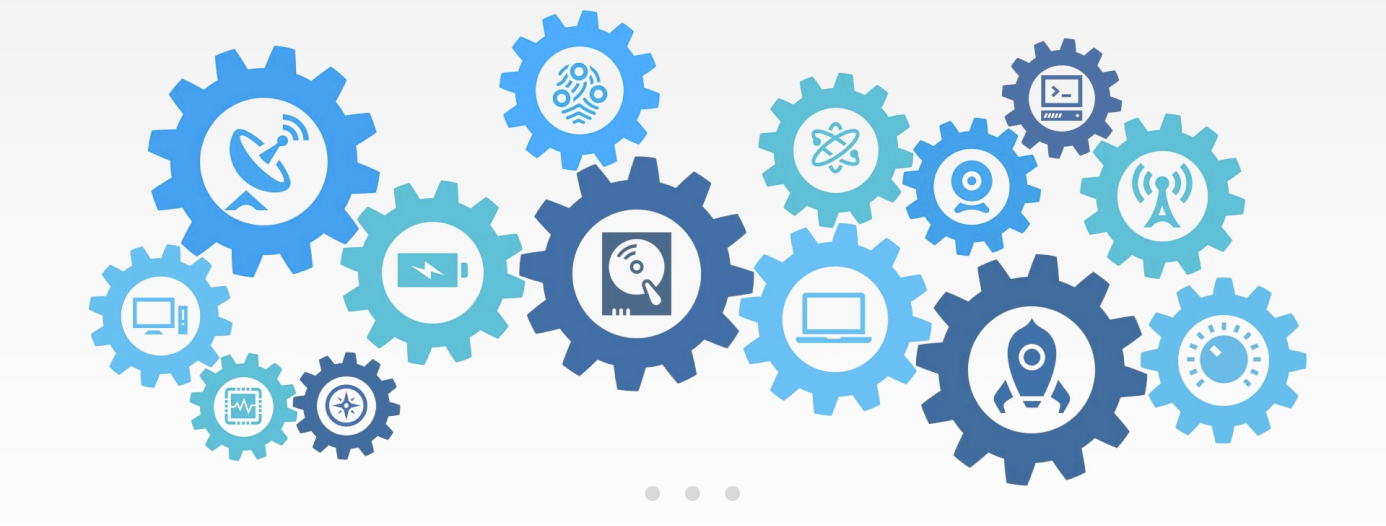
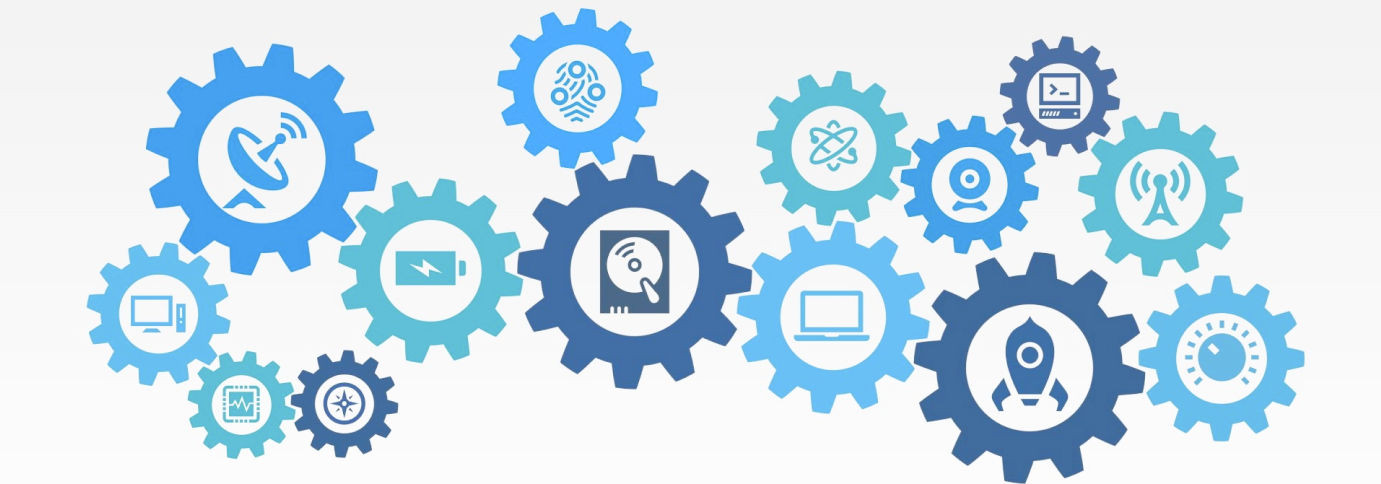
Modified home page

Changed region(s): [[0.0623, 0.062, 0.9652, 1.0], [0.4671, 0.9298, 0.5293, 0.9607]]

diff --git a/src/pages/Home/Home.jsx b/src/pages/Home/Home.jsx
@@ -7,9 +7,11 @@ import Newcard from '../../components/Cards/Newcard'
 import Text from "../../components/Text/Text"
 import flower from "../../assets/Vector.png"
 const Home = () => {
+  
   return (
    <>
-  <Carousel>
+   
+  <Carousel autoPlay={true}  showStatus={false}showThumbs={false}>
     <div className='carousel'>
    <img className="img"src={img} alt="" srcset="" width={"100%"} height={"60%"}/>
    </div>
@@ -31,7 +33,7 @@ const Home = () => {
 <p style={{position:"relative"}}>
 Vision: The vision of Indo Universal Collaboration for Engineering Education (IUCEE) is to improve the quality and global relevance<br/> of engineering education in India<br/>
 </p>
-<p style={{position:"relative",left:"30px"}}>
+<p style={{position:"relative"}}>
 Mission: The mission is to build an ecosystem for transforming engineering education in India with the assistance of engineering education<br/>experts and industry from around the world
 
 </p>

diff --git a/src/pages/Home/home.css b/src/pages/Home/home.css
@@ -21,6 +21,16 @@
      height: 70vh;    */
 /* } */ 
 
+.carousel .control-dots .dot{
+   width: 16px !important;
+   height: 16px !important;
+}
+
+.carousel-root{
+   padding-top: 30px;
+   padding-bottom: 137px;
+}
+
 .carousel{
     margin: 0 auto;
    /* border: 1px solid black; */
@@ -33,6 +43,7 @@
    text-align: center;
    font-size: 32px;
    font-weight: bolder;
+   padding-bottom: 20px;
    font-family: "Manrope";
    color: #f3913b;
    
@@ -45,7 +56,10 @@
 .herocontainer p{
    
    font-size: 18px;
-   text-align: center;
+   position: relative;
+   left: 140px;
+   
+  
    font-weight: lighter;
    font-family: "Manrope";
 

diff --git a/src/components/Text/Text.css b/src/components/Text/Text.css
@@ -1,5 +1,5 @@
 .design h1{
-    font-size: 77px;
+    font-size: 120px;
   
   
     font-weight: bold;
@@ -19,7 +19,7 @@
       
    
       
-      font-size: 39px;
+      font-size: 69px;
        /* left:54px; */
   }
   
@@ -29,7 +29,7 @@
    
       display: flex;
      
-      margin-top: -83px;
+      margin-top: -140px;
       justify-content: center;
   }
   
